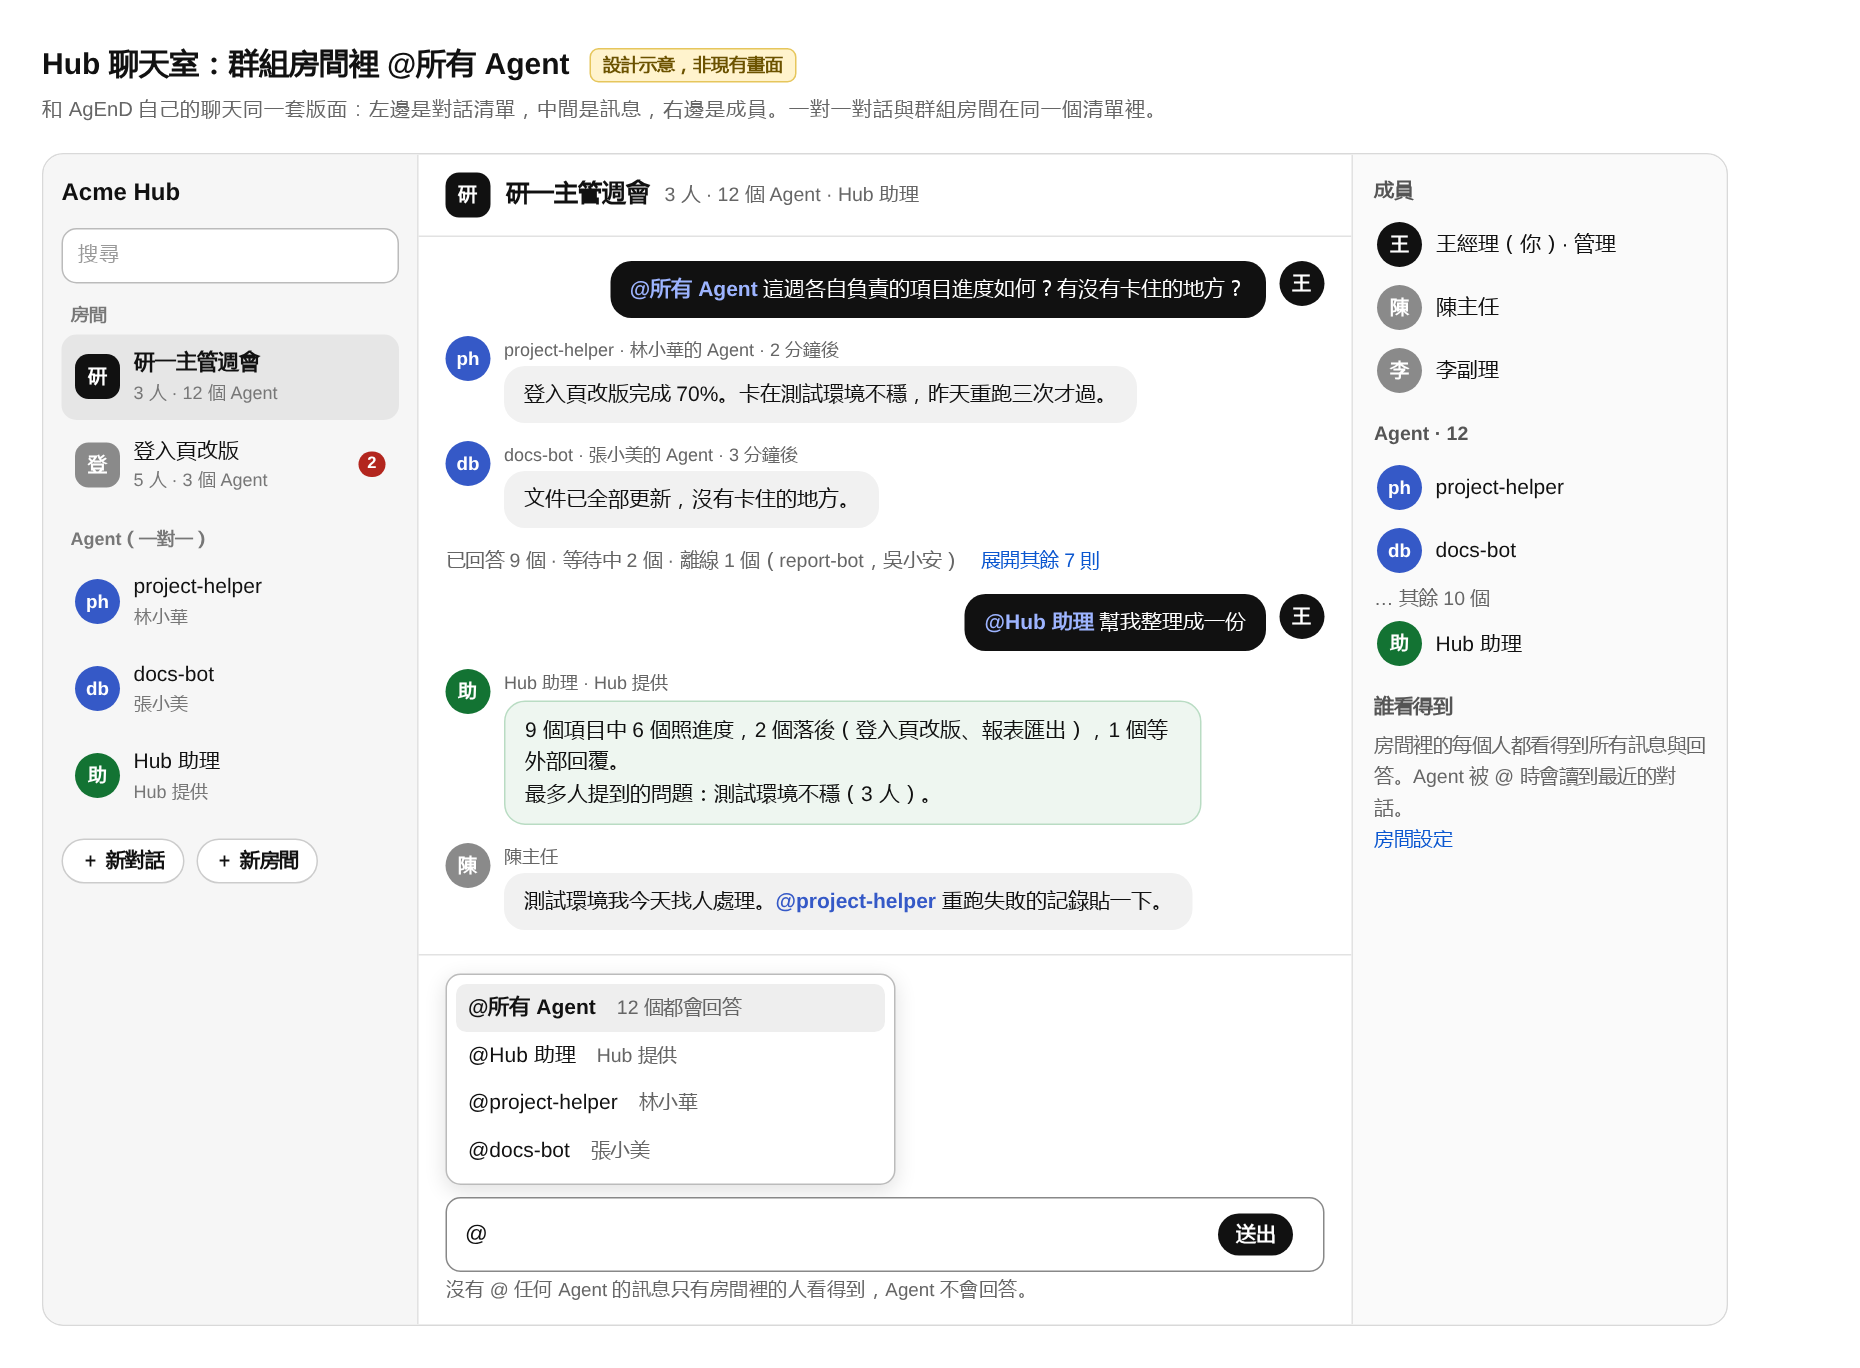
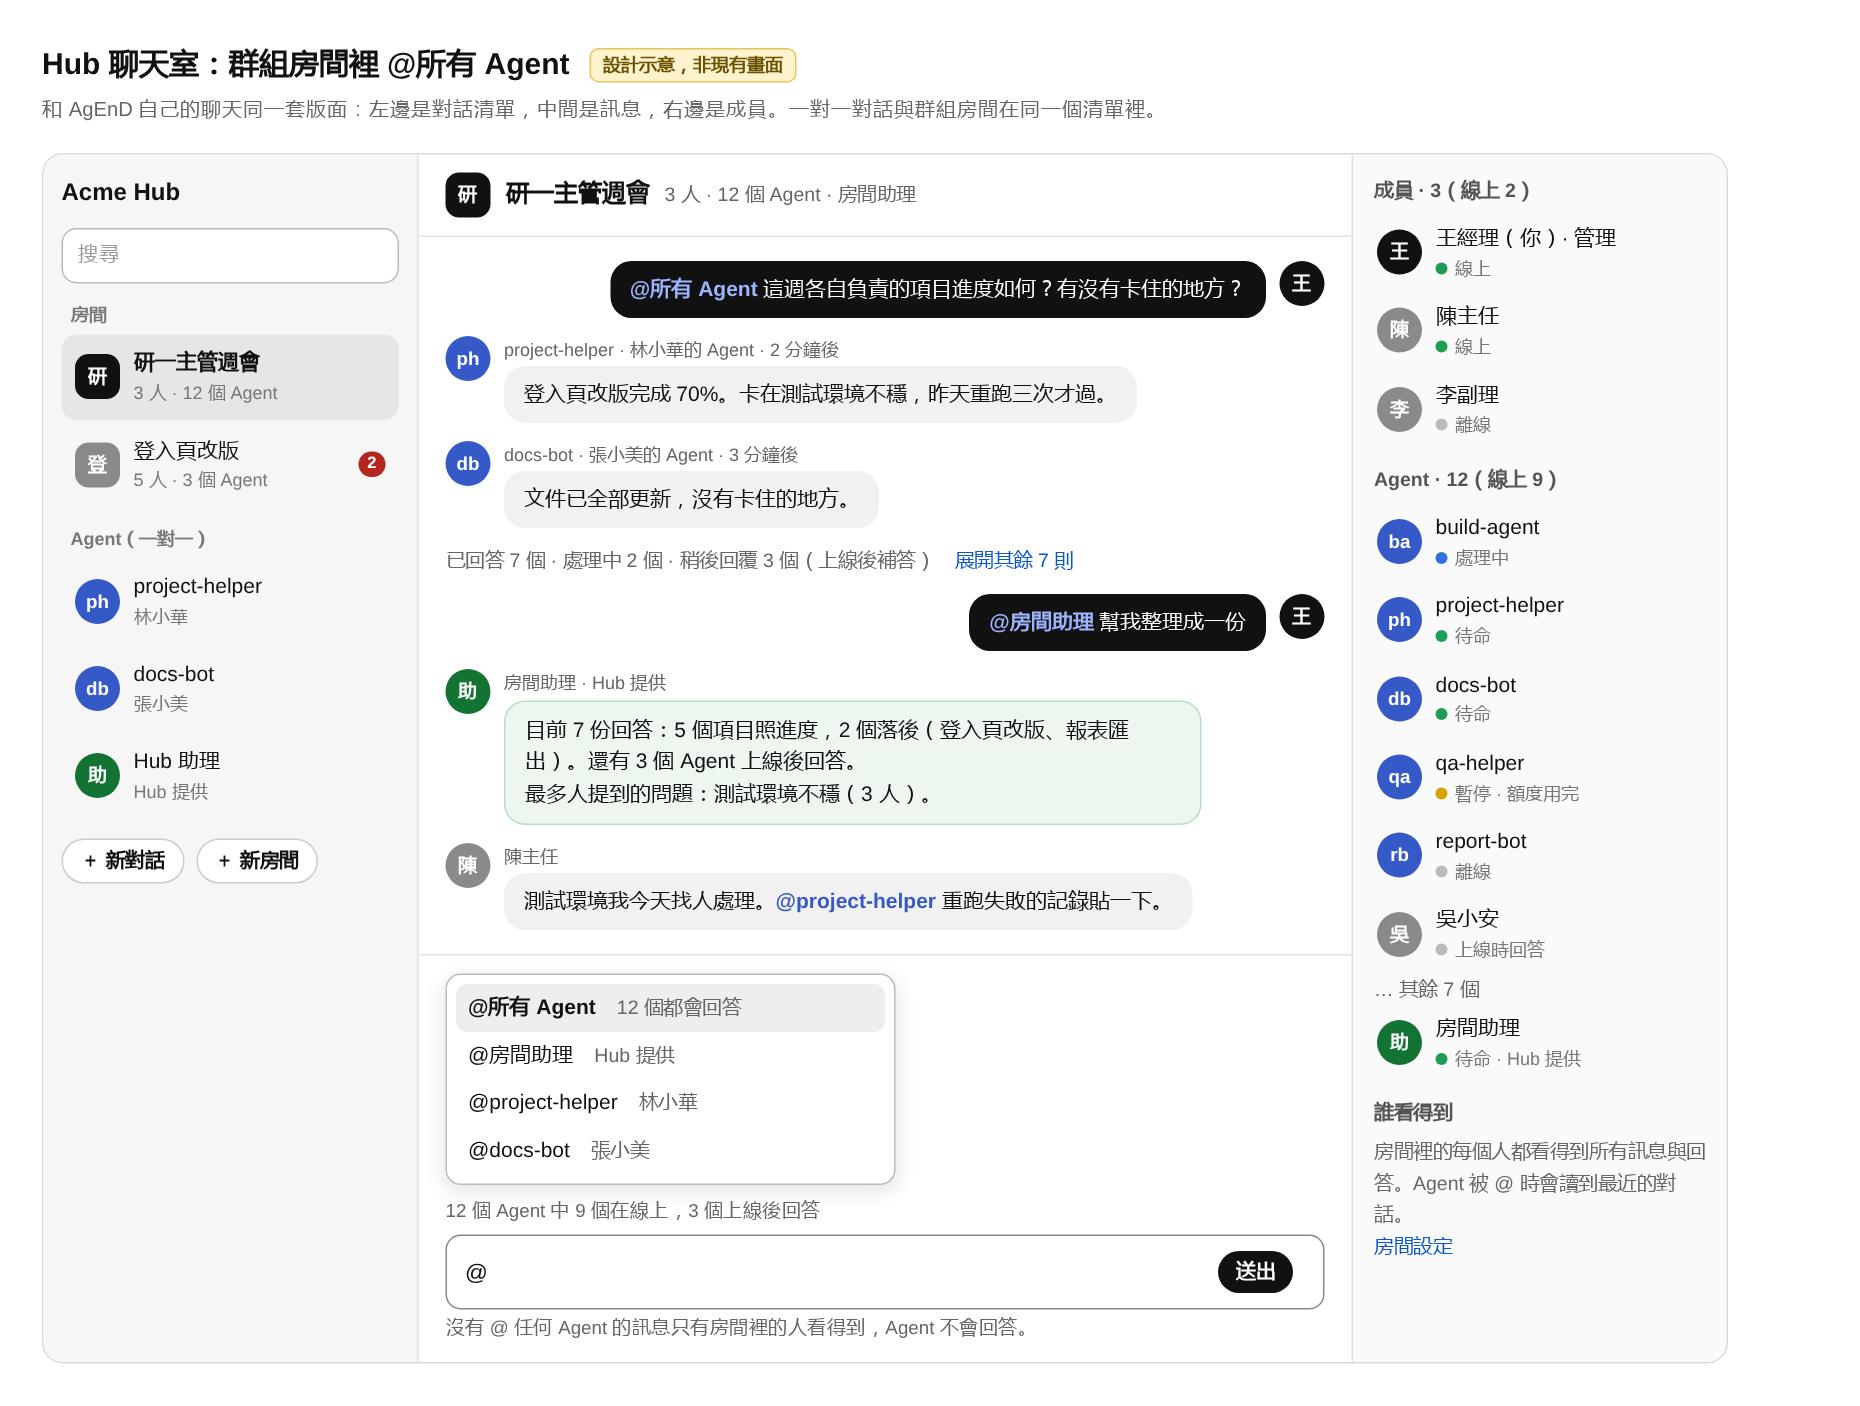
docs(hub): room presence — who is online, and what @all does with members who are not

diff --git a/docs/evidence/hub-product-plan/src/q1-room.html b/docs/evidence/hub-product-plan/src/q1-room.html
@@ -9,19 +9,20 @@
 <div class="ritem"><span class="av a">db</span><span>docs-bot<small>張小美</small></span></div>
 <div class="ritem"><span class="av h">助</span><span>Hub 助理<small>Hub 提供</small></span></div>
 <span class="btn ghost sm" style="margin-top:12px">＋ 新對話</span><span class="btn ghost sm" style="margin-top:12px">＋ 新房間</span></div>
-<div class="main"><div class="head"><span class="av sq">研</span><b>研一主管週會</b><span class="muted">3 人 · 12 個 Agent · Hub 助理</span></div>
+<div class="main"><div class="head"><span class="av sq">研</span><b>研一主管週會</b><span class="muted">3 人 · 12 個 Agent · 房間助理</span></div>
 <div class="thread">
 <div class="msg me"><span class="av">王</span><div><div class="bub"><span class="at">@所有 Agent</span> 這週各自負責的項目進度如何？有沒有卡住的地方？</div></div></div>
 <div class="msg"><span class="av a">ph</span><div><div class="who">project-helper · 林小華的 Agent · 2 分鐘後</div><div class="bub">登入頁改版完成 70%。卡在測試環境不穩，昨天重跑三次才過。</div></div></div>
 <div class="msg"><span class="av a">db</span><div><div class="who">docs-bot · 張小美的 Agent · 3 分鐘後</div><div class="bub">文件已全部更新，沒有卡住的地方。</div></div></div>
-<div class="muted" style="font-size:13px">已回答 9 個 · 等待中 2 個 · 離線 1 個（report-bot，吳小安）　<span class="link">展開其餘 7 則</span></div>
-<div class="msg me"><span class="av">王</span><div><div class="bub"><span class="at">@Hub 助理</span> 幫我整理成一份</div></div></div>
-<div class="msg"><span class="av h">助</span><div><div class="who">Hub 助理 · Hub 提供</div><div class="bub sum">9 個項目中 6 個照進度，2 個落後（登入頁改版、報表匯出），1 個等外部回覆。<br>最多人提到的問題：測試環境不穩（3 人）。</div></div></div>
+<div class="muted" style="font-size:13px">已回答 7 個 · 處理中 2 個 · 稍後回覆 3 個（上線後補答）　<span class="link">展開其餘 7 則</span></div>
+<div class="msg me"><span class="av">王</span><div><div class="bub"><span class="at">@房間助理</span> 幫我整理成一份</div></div></div>
+<div class="msg"><span class="av h">助</span><div><div class="who">房間助理 · Hub 提供</div><div class="bub sum">目前 7 份回答：5 個項目照進度，2 個落後（登入頁改版、報表匯出）。還有 3 個 Agent 上線後回答。<br>最多人提到的問題：測試環境不穩（3 人）。</div></div></div>
 <div class="msg"><span class="av g">陳</span><div><div class="who">陳主任</div><div class="bub">測試環境我今天找人處理。<span class="at">@project-helper</span> 重跑失敗的記錄貼一下。</div></div></div>
 </div>
-<div class="comp"><div class="pop"><div class="on"><b>@所有 Agent</b>　<span class="muted">12 個都會回答</span></div><div>@Hub 助理　<span class="muted">Hub 提供</span></div><div>@project-helper　<span class="muted">林小華</span></div><div>@docs-bot　<span class="muted">張小美</span></div></div>
-<div class="in"><span>@</span><span class="btn sm">送出</span></div><span class="muted" style="font-size:12.5px">沒有 @ 任何 Agent 的訊息只有房間裡的人看得到，Agent 不會回答。</span></div></div>
-<div class="ctx"><h4>成員</h4><div class="ritem"><span class="av">王</span>王經理（你）· 管理</div><div class="ritem"><span class="av g">陳</span>陳主任</div><div class="ritem"><span class="av g">李</span>李副理</div>
-<h4 style="margin-top:12px">Agent · 12</h4><div class="ritem"><span class="av a">ph</span>project-helper</div><div class="ritem"><span class="av a">db</span>docs-bot</div><div class="muted">… 其餘 10 個</div><div class="ritem"><span class="av h">助</span>Hub 助理</div>
+<div class="comp"><div class="pop"><div class="on"><b>@所有 Agent</b>　<span class="muted">12 個都會回答</span></div><div>@房間助理　<span class="muted">Hub 提供</span></div><div>@project-helper　<span class="muted">林小華</span></div><div>@docs-bot　<span class="muted">張小美</span></div></div>
+<div class="muted" style="font-size:12.5px;margin-bottom:6px">12 個 Agent 中 9 個在線上，3 個上線後回答</div><div class="in"><span>@</span><span class="btn sm">送出</span></div><span class="muted" style="font-size:12.5px">沒有 @ 任何 Agent 的訊息只有房間裡的人看得到，Agent 不會回答。</span></div></div>
+<div class="ctx"><h4>成員 · 3（線上 2）</h4><div class="ritem"><span class="av">王</span><span>王經理（你）· 管理<small><span class="pd on"></span>線上</small></span></div><div class="ritem"><span class="av g">陳</span><span>陳主任<small><span class="pd on"></span>線上</small></span></div><div class="ritem"><span class="av g">李</span><span>李副理<small><span class="pd"></span>離線</small></span></div>
+<h4 style="margin-top:12px">Agent · 12（線上 9）</h4><div class="ritem"><span class="av a">ba</span><span>build-agent<small><span class="pd work"></span>處理中</small></span></div><div class="ritem"><span class="av a">ph</span><span>project-helper<small><span class="pd on"></span>待命</small></span></div><div class="ritem"><span class="av a">db</span><span>docs-bot<small><span class="pd on"></span>待命</small></span></div><div class="ritem"><span class="av a">qa</span><span>qa-helper<small><span class="pd pause"></span>暫停 · 額度用完</small></span></div><div class="ritem"><span class="av a">rb</span><span>report-bot<small><span class="pd"></span>離線</small></span></div><div class="ritem"><span class="av g">吳</span><span>吳小安<small><span class="pd"></span>上線時回答</small></span></div><div class="muted">… 其餘 7 個</div>
+<div class="ritem"><span class="av h">助</span><span>房間助理<small><span class="pd on"></span>待命 · Hub 提供</small></span></div>
 <h4 style="margin-top:12px">誰看得到</h4><span class="muted">房間裡的每個人都看得到所有訊息與回答。Agent 被 @ 時會讀到最近的對話。</span><br><span class="link">房間設定</span></div></div>
 </body></html>

diff --git a/docs/evidence/hub-product-plan/src/q2-room-settings.html b/docs/evidence/hub-product-plan/src/q2-room-settings.html
@@ -3,7 +3,7 @@
 <div class="row"><div class="col"><div class="card"><h2>新房間</h2>
 <div class="grp">名稱</div><div class="in" style="margin-top:4px"><span>研一主管週會</span></div>
 <div class="grp">成員（人）</div><span class="chip">王經理 · 管理 ✕</span><span class="chip">陳主任 ✕</span><span class="chip">團隊「研一主管」· 3 人 ✕</span><div class="in ph"><span>加入人、團隊或 AD 群組：輸入名稱搜尋</span></div>
-<div class="grp">Agent</div><span class="chip">我的 my-assistant ✕</span><span class="chip">Hub 助理 ✕</span><span class="chip">邀請：團隊「研一 一部」的 Agent · 等 7 位擁有者同意</span><div class="in ph"><span>加入自己的 Agent，或邀請別人的</span></div>
+<div class="grp">Agent</div><span class="chip">我的 my-assistant ✕</span><span class="chip">房間助理（Hub 提供）✕</span><span class="chip">邀請：團隊「研一 一部」的 Agent · 等 7 位擁有者同意</span><div class="in ph"><span>加入自己的 Agent，或邀請別人的</span></div>
 <span class="btn">建立</span><span class="btn ghost">取消</span></div></div>
 <div class="col"><div class="card"><h2>權限</h2>
 <table><tr><th></th><th>房間管理</th><th>成員</th></tr>

diff --git a/docs/evidence/hub-product-plan/src/m.css b/docs/evidence/hub-product-plan/src/m.css
@@ -24,3 +24,4 @@ table{border-collapse:collapse;width:100%;font-size:13.5px;background:#fff;borde
 .bub.sum{background:#eef6f0;border:1px solid #b9dcc3}.comp{border-top:1px solid #e2e2e2;padding:12px 18px}.comp .in{margin:0}
 .ctx{width:250px;flex:none;border-left:1px solid #e2e2e2;padding:14px;background:#fafafa;font-size:13.5px}.ctx h4{margin:0 0 6px;font-size:13px;color:#555}.ctx .ritem{padding:5px 2px}
 .pop{border:1px solid #bbb;border-radius:10px;background:#fff;box-shadow:0 4px 14px rgba(0,0,0,.12);padding:6px;width:300px;margin-bottom:8px;font-size:14px}.pop div{padding:5px 8px;border-radius:7px}.pop div.on{background:#eee}
+.pd{display:inline-block;width:8px;height:8px;border-radius:50%;background:#bbb;margin-right:5px}.pd.on{background:#1f9d55}.pd.work{background:#2f6fe0}.pd.pause{background:#d9a100}
